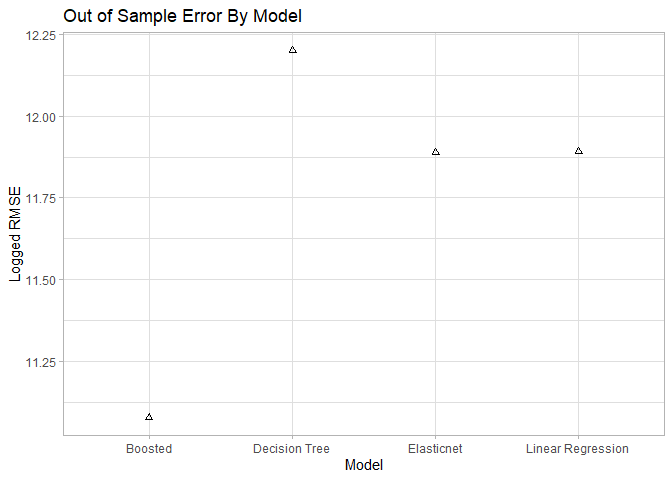
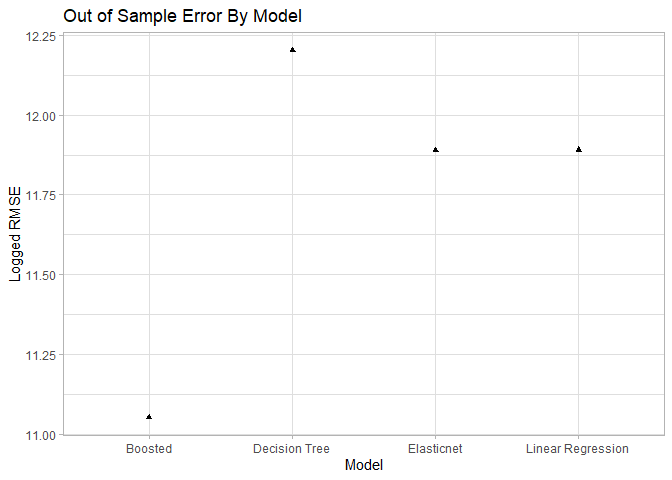
Changes to graphs and energy demand data

diff --git a/prediction_presentation.html b/prediction_presentation.html
@@ -3124,10 +3124,6 @@ slide:not(.current) .plotly.html-widget{
           </hgroup>
   </slide>
 
-<style>
-.forceBreak { -webkit-column-break-after: always; break-after: column; }
-</style>
-
 <slide class=""><hgroup><h2>The Big Picture</h2></hgroup><article  id="the-big-picture">
 
[1 lines of base64/hex data omitted]
@@ -3138,22 +3134,28 @@ slide:not(.current) .plotly.html-widget{
 
 </article></slide><slide class=""><hgroup><h2>Data</h2></hgroup><article  id="data">
 
[2 lines of base64/hex data omitted]
 
 <p></font></p>
 
 </article></slide><slide class=""><hgroup><h2>Methods</h2></hgroup><article  id="methods">
+
+<p><font size="3"></p>
+
+<p><strong>Preparation:</strong> used a tidymodels recipe that created dummy variables for all nomial predictors, computed mean imputation for all numerical predictors, removed all low-variance, highly correlated, and linearly depended variables, and normalized all predictors.</p>
+
+<p></font></p>
 
 <div class="columns-2">
 <p><strong>Four methods</strong><br/>1. Linear Regression<br/>2. Elasticnet Regression<br/>3. Decision Tree<br/>4. Boosted Ensemble</p>
 
 <p><strong>Tuning Method</strong><br/><strong>-</strong> 5-fold Cross Validation<br/><strong>-</strong> Root Mean Square Error</p></div>
 
-<p><strong>Tuned Parameters</strong><br/><strong>-</strong> Elasticnet Regression: <em>Penalty = 0.01, Mixture = 0.3</em><br/><strong>-</strong> Decision Tree: <em>Cost complexity = 0, tree depth = 10</em><br/><strong>-</strong> Boosted Ensemble: <em>Learning rate = 0.1, tree depth = 8</em></p>
+<p><strong>Tuned Parameters</strong><br/><strong>-</strong> Elasticnet Regression: <em>Penalty = 0.01, Mixture = 0.3</em><br/><strong>-</strong> Decision Tree: <em>Cost complexity = 0, tree depth = 10</em><br/><strong>-</strong> Boosted Ensemble: <em>Learning rate = 0.1, tree depth = 11</em></p>
 
 </article></slide><slide class=""><hgroup><h2>Outcome</h2></hgroup><article  id="outcome">
 
[2 lines of base64/hex data omitted]
 
 <p><strong>-</strong> The boosted model performed the best on CV and test data.</p>
 
@@ -3166,8 +3168,10 @@ slide:not(.current) .plotly.html-widget{
 <ul>
 <li>Emissions by power plant for CO2, SO2, and NOx (2019)<br/><a href='https://www.eia.gov/electricity/data/emissions/' title=''>https://www.eia.gov/electricity/data/emissions/</a><br/></li>
 <li>Guide to data<br/><a href='https://www.eia.gov/electricity/data/guide/pdf/guide.pdf' title=''>https://www.eia.gov/electricity/data/guide/pdf/guide.pdf</a><br/></li>
-<li>Cooling and heating days data<br/><a href='https://www7.ncdc.noaa.gov/CDO/CDODivisionalSelect.jsp#' title=''>https://www7.ncdc.noaa.gov/CDO/CDODivisionalSelect.jsp#</a></li>
-</ul></article></slide>
+<li>Heating days data<br/><a href='https://www.ncdc.noaa.gov/societal-impacts/redti/time-series/USA/dec/year-to-date' title=''>https://www.ncdc.noaa.gov/societal-impacts/redti/time-series/USA/dec/year-to-date</a></li>
+</ul>
+
+<p><strong>Contact:</strong> <a href='mailto:ojetton@uoregon.edu' title=''>ojetton@uoregon.edu</a></p></article></slide>
 
 
   <slide class="backdrop"></slide>

diff --git a/project_markdown.md b/project_markdown.md
@@ -1,7 +1,7 @@
-Class Project
+Predicting CO2 Emissions by Power Plant
 ================
 Owen Jetton
-2/20/2021
+3/10/2021
 
 # Data
 
@@ -31,15 +31,14 @@ co2_data_2019 = read_xlsx("C:/Users/ojett/Documents/EC424/ec424project/emissions
                      sheet = 1) %>% mutate(year = 2019)
 
 
-# Upload heating and cooling days data
-heat_cool_df = read.delim("https://www.ncei.noaa.gov/pub/orders/CDODiv6010178275591.txt",
-                          sep = ",") 
+# Upload heating days data
+heat_df = read_xlsx("C:/Users/ojett/Documents/EC424/ec424project/state_region_heating_data.xlsx")
 ```
 
 # Cleaning
 
 ``` r
-# Merging CO2 to get larger data set
+# Binding CO2 to get larger data set
 data_full = do.call("rbind", list(co2_data_2016, co2_data_2017,
                                   co2_data_2018, co2_data_2019))
 
@@ -55,37 +54,9 @@ data_full %<>% clean_names() %>%
             fuel_units, metric_tonnes_of_co2_emissions, plant_name))
 
 
+# Add heating data to main dataframe
 
-# Cleaning the Heating and Cooling days data
-heat_cool_df %<>% clean_names() %>% 
-    # select relevant variables
-  select(state_code, year_month, cdd, hdd) %>%
-  
-    # make year variable from year_month variable, cutting off the month letters
-  mutate(year = strtrim(year_month,4)) %>%
-    
-    # grouping by months, and taking the sum to get the total number
-      # of heating and cooling days in a year
-  group_by(state_code, year) %>%
-  mutate(cooling_days = sum(cdd),
-         heating_days = sum(hdd),
-         state_code = factor(state_code)) %>%
-  
-    # selecting relevant 
-  select(state_code, year, cooling_days, heating_days) %>%
-  distinct()
-
-# Need the state names to correspond with the right regions:
-  # read dataset that has state names for corresponding regions
-  states_region = read_xlsx("C:/Users/ojett/Documents/EC424/ec424project/region_to_state.xlsx")
-  
-  # add state names to respective region in 
-heat_cool_df = merge(heat_cool_df, states_region, by = "state_code")
-
-
-# Add heating and cooling data to main dataframe
-
-data_full = merge(data_full, heat_cool_df, by = c("state", "year"))
+data_full = merge(data_full, heat_df, by = c("state", "year"))
 
 
 # Renaming CO2 emissions variable to "emissions"
@@ -117,7 +88,8 @@ ggplot(data_full, aes(x = log(generation_k_wh), y = log(emissions))) +
 ``` r
 ggplot(data_full, aes(y = aggregated_fuel_group, fill = aggregated_fuel_group)) + 
   geom_bar(stat = "count") +
-  labs(x = "Total", y = "Fuel Group") +
+  labs(x = "Total", y = "Fuel Group",
+       title = "Frequency of Fuel Groups in the Data") +
   theme_light() +
   theme(legend.position = "none")
 ```
@@ -334,6 +306,7 @@ workflow_boost = workflow() %>%
   add_recipe(train_recipe)
 
 # Run the model
+    # I used 5:5 for levels, due to my weak computer. I recommend trying higher.
 cv_boost = workflow_boost %>%
   tune_grid(
     train_cv,
@@ -364,36 +337,37 @@ reg_error = sum(cv_reg[[3]][[1]]$.estimate + cv_reg[[3]][[2]]$.estimate +
 # Elasticnet Root Mean Square Error
     # values extracted manually through cv_en dataset estimates where
     # penalty = 0.01, and mixture = 0.3
-elas_error = sum(124365.9 + 123989.3 + 119269.7 + 67415.22 + 123227.2)/5
+elas_error = sum(124364.5 + 123987.1 + 119266.0 + 67416.86 + 123229.3)/5
 
 
 # Decision Tree Root Mean Square Error
-    # values extracted from tree_cv_fit dataset with corre
-tree_error = sum(1.303645e+05 + 8.239833e+04 + 5.612436e+04 + 9.301760e+04 +
-                   1.359426e+05)/5
+    # values extracted from tree_cv_fit dataset with correct hyperparameters
+    # cost complexity = 0, tree depth = 10
+tree_error = sum(130349.0 + 92505.39 + 55999.62 + 67723.97 +
+                   136221.0)/5
 
 
 # Boosted Model Root Mean Square Error
     # values extracted manually from the cv_boost dataset with correct tree
-    # depth (8) and complexity (0.1) that the final boosted model has
-boost_error = sum(86721.87 + 41914.81 + 40989.52 + 46046.91 + 42405.41)/5
+    # depth (11) and learn rate (0.1) that the final boosted model has
+boost_error = sum(86096.08 + 40215.92 + 38403.37 + 43542.27 + 42643.87)/5
 
 
 
 # Comparing Cross Validation Errors
 cv_error_df = data.frame(Model = c("Linear Regression", "Elasticnet",
                                    "Decision Tree", "Boosted"),
-                         CV_Error = c(reg_error, elas_error, tree_error,
+                         Error = c(reg_error, elas_error, tree_error,
                                       boost_error))
 
-ggplot(cv_error_df, aes(x = Model, y = log(CV_Error))) +
+ggplot(cv_error_df, aes(x = Model, y = log(Error))) +
   geom_point() +
   labs(x = "Model", y = "Logged CV RMSE",
        title = "Estimated Cross Validation Error By Model") +
   theme_light()
 ```
 
-![](project_markdown_files/figure-gfm/unnamed-chunk-1-1.png)<!-- -->
+![](project_markdown_files/figure-gfm/Estimated%20Error-1.png)<!-- -->
 
 # Prediction
 
@@ -420,7 +394,7 @@ p_load(Metrics)
 
 predict_rmse_df = data.frame(
   Model = c("Linear Regression", "Elasticnet", "Decision Tree", "Boosted"),
-  RMSE = c(rmse(test_df$emissions, reg_pred$.pred),
+  Error = c(rmse(test_df$emissions, reg_pred$.pred),
            rmse(test_df$emissions, en_pred$.pred),
            rmse(test_df$emissions, tree_pred$.pred),
            rmse(test_df$emissions, boost_pred$.pred))
@@ -428,8 +402,8 @@ predict_rmse_df = data.frame(
 
 
 # Plotting the RMSE of the predictions
-ggplot(predict_rmse_df, aes(x = Model, y = log(RMSE))) +
-  geom_point(shape = 2) +
+ggplot(predict_rmse_df, aes(x = Model, y = log(Error))) +
+  geom_point(shape = 17) +
   labs(x = "Model", y = "Logged RMSE",
        title = "Out of Sample Error By Model") +
   theme_light()
@@ -439,17 +413,20 @@ ggplot(predict_rmse_df, aes(x = Model, y = log(RMSE))) +
 
 ``` r
 # Putting the RMSE datasets together to compare
-compare_df = merge(cv_error_df, predict_rmse_df, by = "Model")
+compare_df = rbind(cv_error_df, predict_rmse_df)
+
+  # adding designation variable for graphing ease
+compare_df %<>% mutate(Type = c("CV Error", "CV Error", "CV Error", "CV Error",
+                                "Test Error", "Test Error", "Test Error", "Test Error"))
 
 
 # Graphing a comparison
-ggplot(compare_df, aes(x = Model)) +
-  geom_point(aes(y = log(RMSE))) +
-  geom_point(aes(y = log(CV_Error)), shape = 2) +
+ggplot(compare_df, aes(x = Model, y = log(Error), shape = Type)) +
+  geom_point() +
   labs(x = "Model", y = "Logged RMSE",
-       title = "Comparing Estimated vs Real Error By Model",
-       caption = "circle - Real, triangle - Estimated") +
-  theme_light()
+       title = "Comparing Estimated vs Real Error By Model") +
+  theme_light() +
+  theme(legend.position = "bottom", legend.title = element_blank())
 ```
 
 ![](project_markdown_files/figure-gfm/Prediction-2.png)<!-- -->
@@ -460,3 +437,12 @@ ggplot(compare_df, aes(x = Model)) +
 2.  1-page “executive summary”
 3.  4-slide summary following paragraphs 2–5 of the executive summary
 4.  Evaluation of your group member’s contribution (doesn’t apply)
+
+### Sources
+
+  - Emissions by power plant for CO2, SO2, and NOx (2019)
+    <https://www.eia.gov/electricity/data/emissions/>
+  - Guide to data
+    <https://www.eia.gov/electricity/data/guide/pdf/guide.pdf>
+  - Cooling and heating days data
+    <https://www.ncdc.noaa.gov/societal-impacts/redti/time-series/USA/dec/year-to-date>
